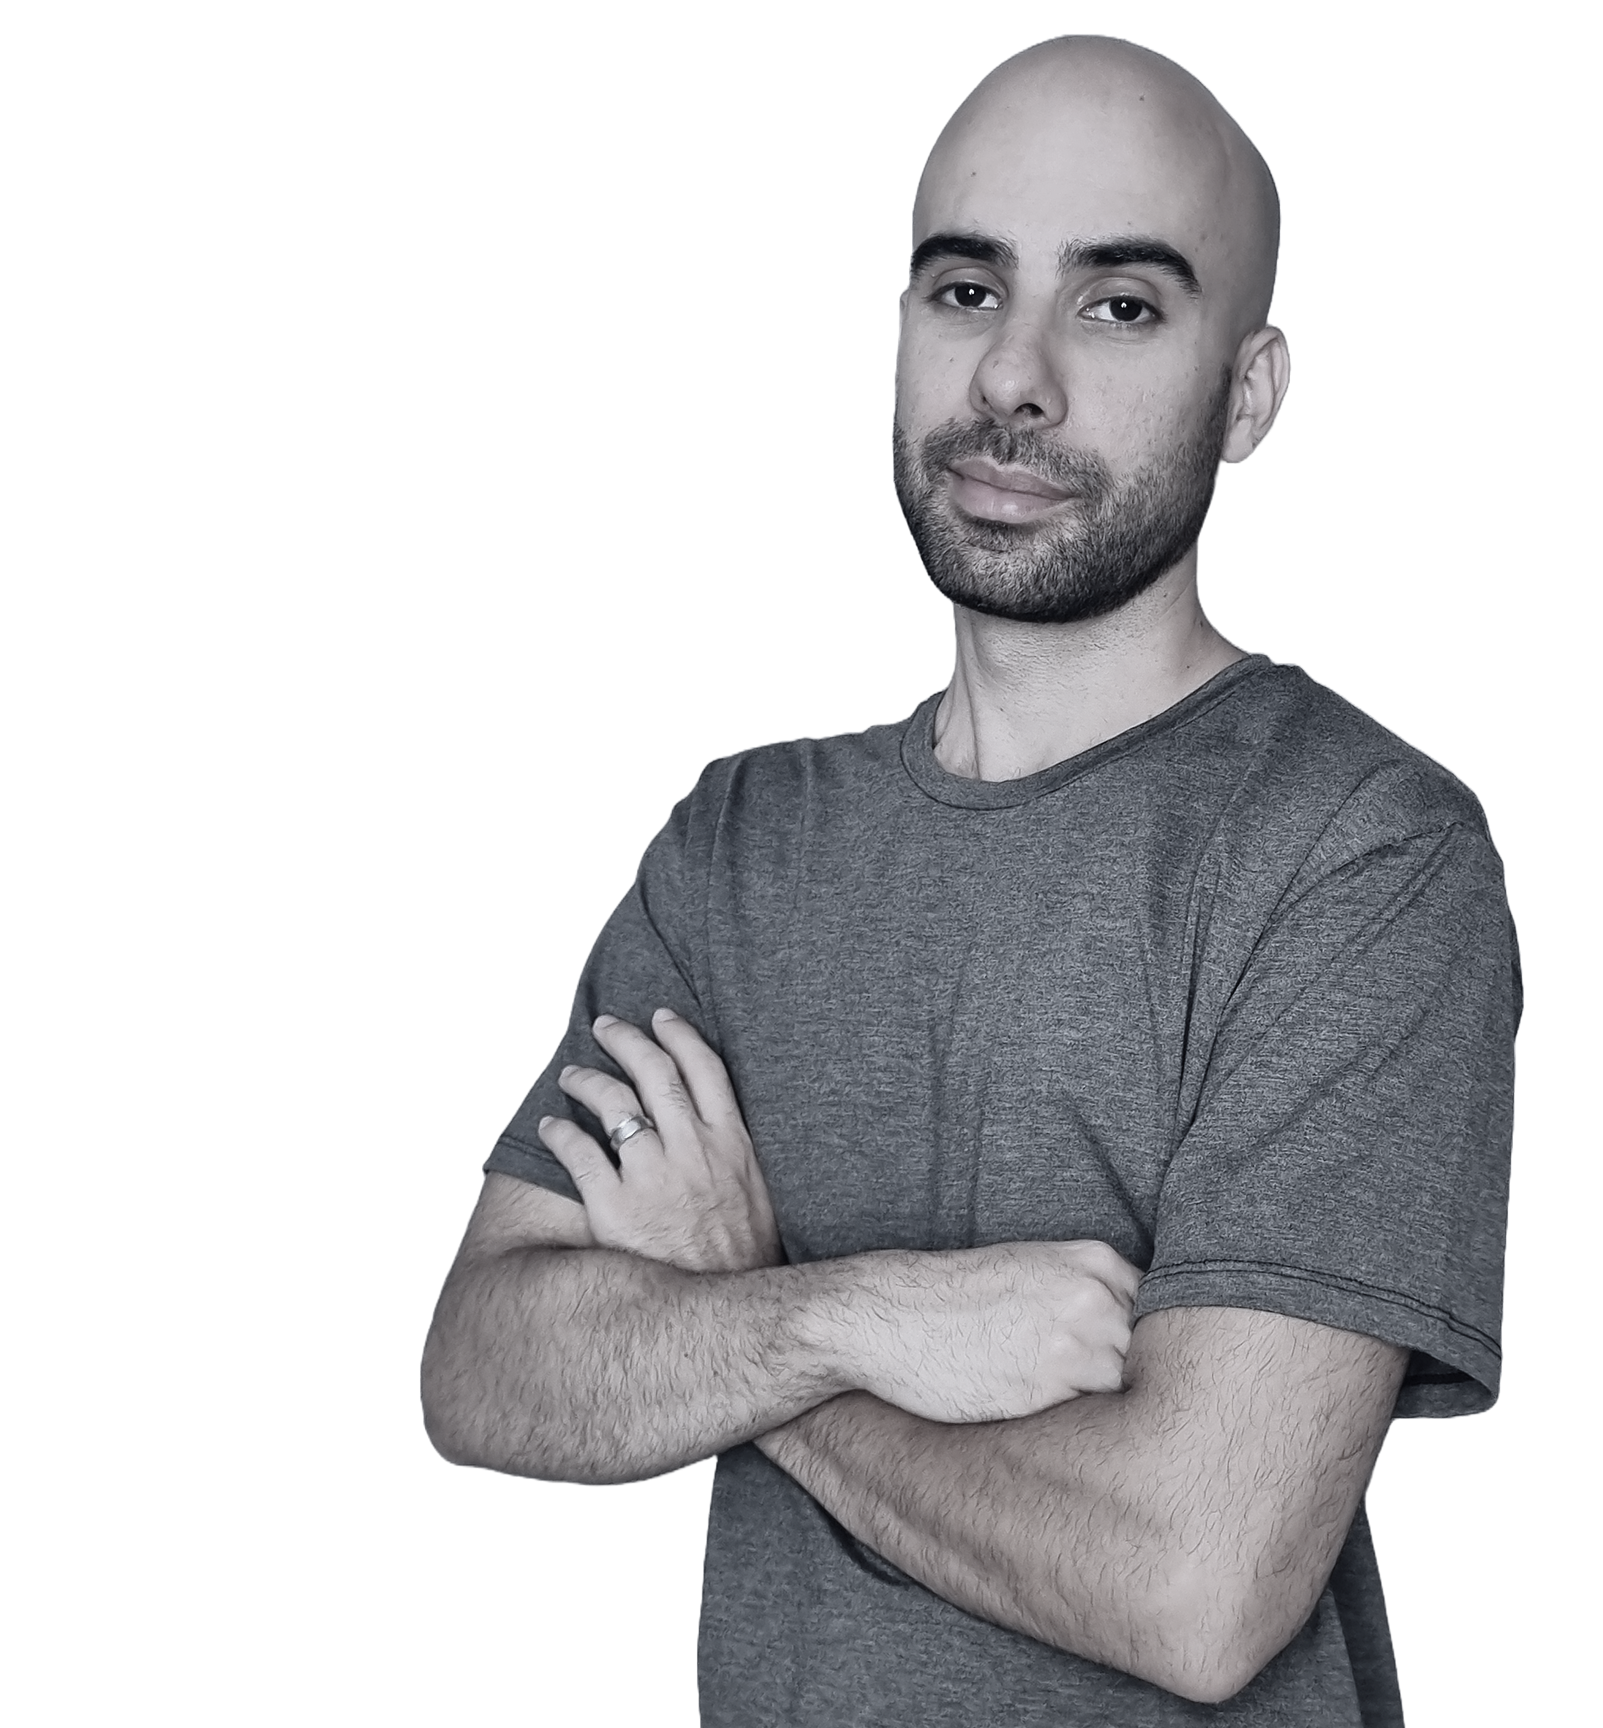
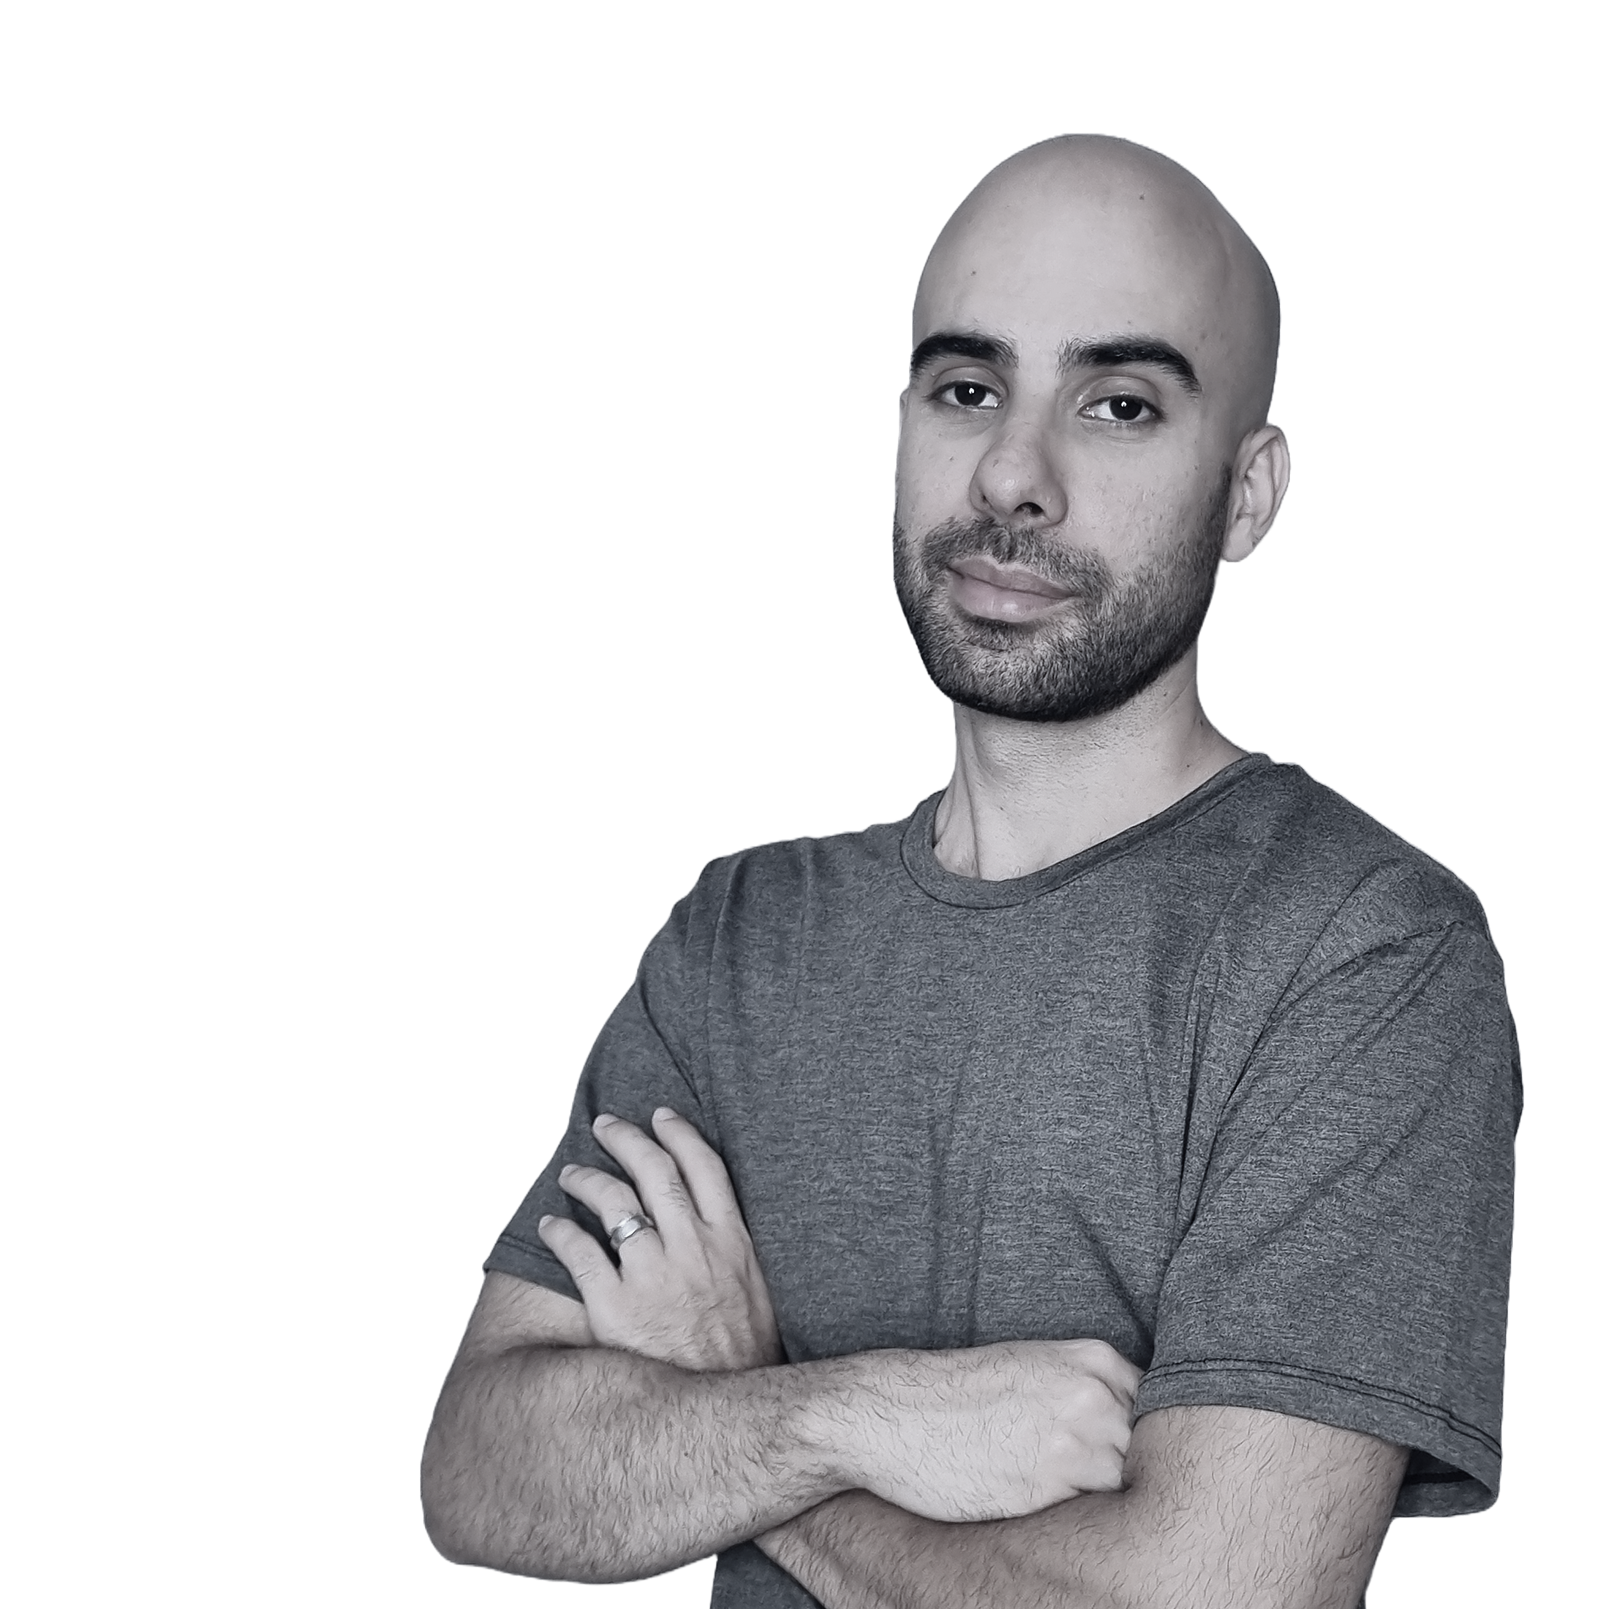
mobile test

diff --git a/trainer.html b/trainer.html
@@ -46,16 +46,16 @@
         <component-global-menu>
             Trainer
         </component-global-menu>
-        <div class="header-poster-section dark-graycool-background">
-            <div class="header-poster-section-container">
-                <component-page-title>trainer</component-page-title>
-            </div>
-        </div>
     </header>
-
+    
     <main>
 
         <section class="section-container-padding dark-graycool-background picture-container">
+            <div class="header-poster-section dark-graycool-background">
+                <div class="header-poster-section-container">
+                    <component-page-title>trainer</component-page-title>
+                </div>
+            </div>
             <img src="images/pictures/trainer-pic.png" alt="" class="picture-background">
             <div class="section-content picture-content">
                 <component-section-title>

diff --git a/components/component-global-menu.js b/components/component-global-menu.js
@@ -15,8 +15,8 @@ class ComponentGlobalMenu extends HTMLElement{
                     height: 48px;
                     top: 0;
                     background-color: var(--graycool1000);
-                    box-shadow: 0px 0px 4px var(--graycool800);
-                    z-index: 2;
+                    /*box-shadow: 0px 0px 4px var(--graycool800);*/
+                    z-index: 4;
                 }
 
                 .global-menu-container {
@@ -141,7 +141,7 @@ class ComponentGlobalMenu extends HTMLElement{
                     transition-duration: 0.2s;
                     padding: 4px 8px 4px 8px;
                     font-weight: 500;
-                    padding: 16px;
+                    padding: 8px;
                     transition-duration: 0.2s;
                 }
 

diff --git a/styles/home.css b/styles/home.css
@@ -7,7 +7,8 @@
     margin-left: auto;
     margin-right: auto;
     margin-bottom: 24px;
-    box-shadow: 0px 0px 8px var(--graycool500);
+    box-shadow: 0px 0px 16px var(--graycool600);
+    /*border: 2px solid var(--sunset800);*/
     border-radius: 50%;
     width: 188px;
     height: 188px;
@@ -24,14 +25,14 @@
 }
 
 .social-name h1 {
-    font-weight: 500;
+    font-weight: 700;
     font-size: 32px;
     font-family: var(--font-inter-tight);
     color: var(--graycool0);
 }
 
 .social-name h2 {
-    font-weight: 400;
+    font-weight: 500;
     font-size: 16px;
     color: var(--sunset600);
     
@@ -40,6 +41,7 @@
 .social-name p {
     font-style: italic;
     color: var(--graycool0);
+    font-weight: 200;
 }
 
 .section-anchor {

diff --git a/sobre.html b/sobre.html
@@ -48,7 +48,7 @@
         </component-global-menu>
         <div class="header-poster-section">
             <div class="header-poster-section-container">
-                <component-page-title>surgimento do<br>phoneticando</component-page-title>
+                <component-page-title>sobre</component-page-title>
             </div>
         </div>
     </header>

diff --git a/styles/picture.css b/styles/picture.css
@@ -14,7 +14,7 @@
 /* ─── TRAINER PIC ─── */
 .picture-container {
     position: relative;
-    min-height: 100vh;
+    min-height: 64vh;
     background-color: var(--graycool1000); /* fallback */
     overflow: hidden;
 }

diff --git a/styles/header.css b/styles/header.css
@@ -4,4 +4,9 @@
     display: flex;
     align-items: center;
     justify-content: center;
+    
+}
+
+.header-poster-section-container {
+    z-index: 3;
 }
